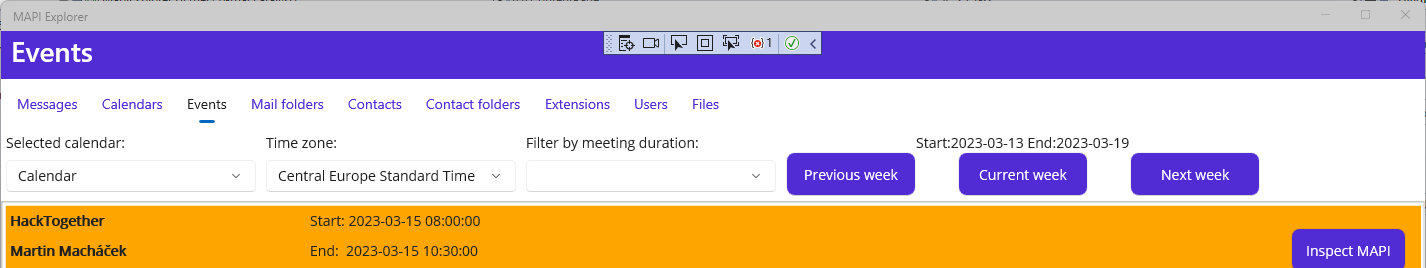
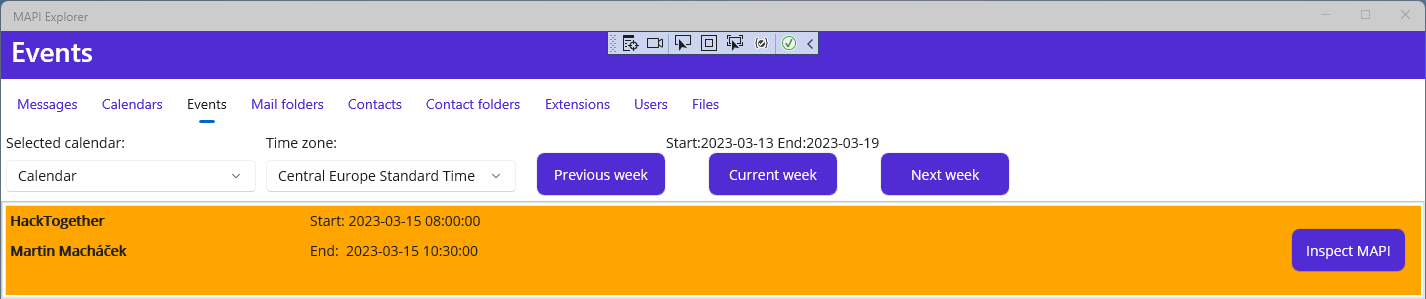
Filtering by single-value extended properties not support on calendar view

diff --git a/MapiExplorer.UI/Views/EventsPage.xaml b/MapiExplorer.UI/Views/EventsPage.xaml
@@ -12,8 +12,8 @@
             <Picker ItemsSource="{Binding Calendars}" SelectedItem="{Binding SelectedCalendar}" ItemDisplayBinding="{Binding Name}"
                     WidthRequest="250" Title="Selected calendar:"/>
             <Picker Margin="10,0" ItemsSource="{Binding TimeZones, Mode=OneWay}" SelectedItem="{Binding SelectedTimeZone}" WidthRequest="250" Title="Time zone:"/>
-            <Picker ItemsSource="{Binding MeetingDurations}" SelectedItem="{Binding SelectedMeetingDuration}" ItemDisplayBinding="{Binding DisplayName}"
-                     WidthRequest="250" Title="Filter by meeting duration:"/>
+            <!--<Picker ItemsSource="{Binding MeetingDurations}" SelectedItem="{Binding SelectedMeetingDuration}" ItemDisplayBinding="{Binding DisplayName}"
+                     WidthRequest="250" Title="Filter by meeting duration:"/>-->
             <Button Margin="10,0,0,0" Text="Previous week" MaximumHeightRequest="25" VerticalOptions="End" WidthRequest="130"
                     Command="{Binding SetPreviousWeekCommand}"/>
             <VerticalStackLayout>

diff --git a/MapiExplorer.Services/EventsService.cs b/MapiExplorer.Services/EventsService.cs
@@ -26,11 +26,12 @@ namespace MapiExplorer.Services
                 var response = await _client.Me.Calendars[calendarId].CalendarView.GetAsync(x =>
                 {
                     x.QueryParameters.Select = new[] { "id", "subject", "organizer", "start", "end", "location", "bodyPreview" };
-                    if (durationFilter != null && !string.IsNullOrEmpty(durationFilter.FilterOperator))
-                    {
-                        var pidLid = PidPropertyFactory.Create(PidLidProperties.PidLidAppointmentDuration);
-                        x.QueryParameters.Filter = $"singleValueExtendedProperties/Any(ep: ep/id eq '{pidLid.GraphId}' and cast(ep/value, Edm.Int32) {durationFilter.FilterOperator} {durationFilter.DurationMinutes})";
-                    }
+                    // calendarview doesn't support filtering by single extended property
+                    //if (durationFilter != null && !string.IsNullOrEmpty(durationFilter.FilterOperator))
+                    //{
+                    //    var pidLid = PidPropertyFactory.Create(PidLidProperties.PidLidAppointmentDuration);
+                    //    x.QueryParameters.Filter = $"singleValueExtendedProperties/Any(ep: ep/id eq '{pidLid.GraphId}' and cast(ep/value, Edm.Int32) {durationFilter.FilterOperator} {durationFilter.DurationMinutes})";
+                    //}
                     x.QueryParameters.StartDateTime = startDateTimeUtc.ToString("yyyy-MM-ddThh:mm:ss");
                     x.QueryParameters.EndDateTime = endDateTimeUtc.ToString("yyyy-MM-ddThh:mm:ss");
                     if (!string.IsNullOrEmpty(timezone))

diff --git a/README.md b/README.md
@@ -156,8 +156,6 @@ The start and end date time in the event's detail reflects the selected **time z
 
 Use **Previous week** and **Next week** buttons to list events backward and forward. Use **Current week** to return to default.
 
-There is a filter where user can filter events by meeting duration. The filtering is applied to [PidLidAppointmentDuration](https://learn.microsoft.com/en-us/office/client-developer/outlook/mapi/pidlidappointmentduration-canonical-property) single-value extended property.
-
 Range for displayed events is one work week started on Monday.
 
 ![](assets/Events.png)
